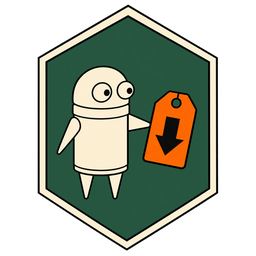
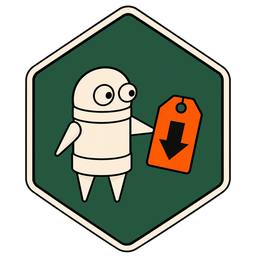
Match original emblem frames and restore visible Semibot bands

Changed region(s): [[0.0938, 0.0, 0.9062, 1.0], [0.3438, 0.25, 0.4688, 0.2812]]

diff --git a/ROLE_ICON_GUIDE.md b/ROLE_ICON_GUIDE.md
@@ -7,7 +7,8 @@ The user's instructions in RoleShuffle-S001 (`019fbdb5-6974-7f70-b783-b426be968f
 and RoleShuffle-S002 (`01a091a3-dc1e-7463-bad9-ef2e5a5fd3d9`), reconfirmed on
 2026-09-21, take precedence over the earlier frameless concept.
 
-- Preserve the hexagonal frame, cream edging and interior illustration.
+- Preserve the broad, softly rounded hexagonal frame of Tank/Medic, cream edging
+  and interior illustration. Do not substitute a narrow, sharp-cornered badge.
 - Make only the exterior of the hexagon transparent.
 - Match the flat colors, simple shading and dark outlines of the existing set.
 - Use a clear role-specific action or prop; avoid unrelated decoration.
@@ -16,6 +17,9 @@ and RoleShuffle-S002 (`01a091a3-dc1e-7463-bad9-ef2e5a5fd3d9`), reconfirmed on
   a distinct shallow cylindrical jaw/neck band, cylindrical torso and cone legs.
 - Negotiator and Rigger have no mouth, as requested on 2026-10-31. Remove only
   the facial mouth slit; retain the structural contour of the head and neck band.
+- Keep both the shallow neck band below the dome and the lower waist band above
+  the legs visibly separate from the torso. Do not collapse either band to a
+  single thin line; use the original Medic proportions as the reference.
 - Arms attach high on the torso, just below the jaw band. Keep them short and
   tapered. Do not add human elbows, wrists, fingers or extra joints.
 - Reference approved original icons such as Tank and Medic for anatomy. Do not
